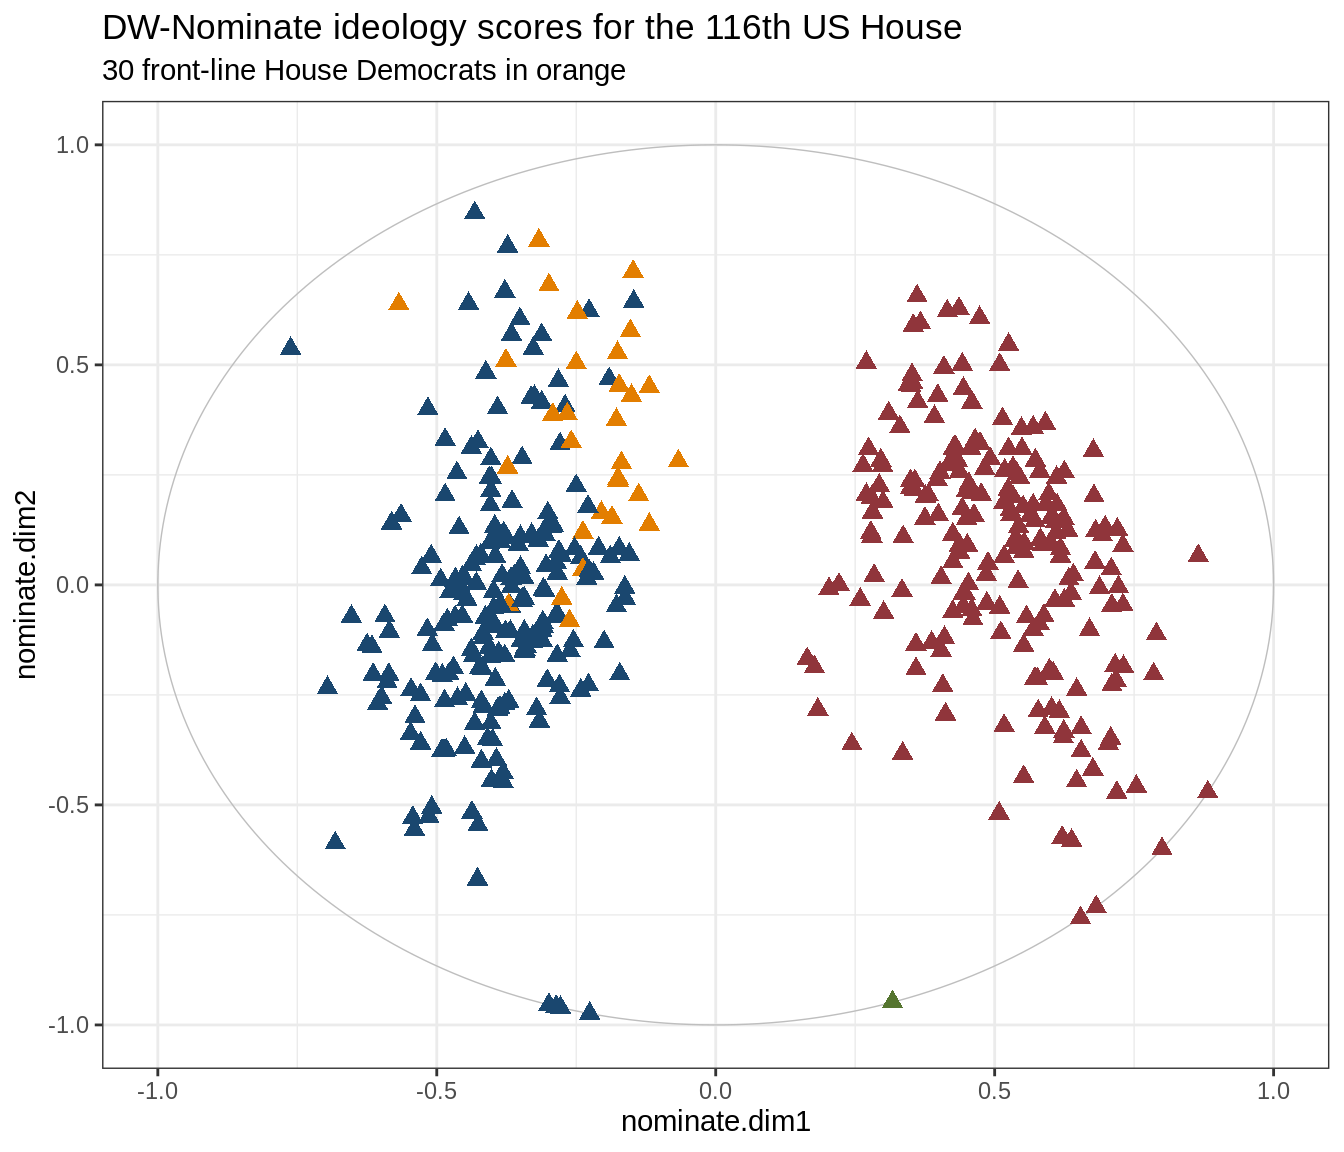
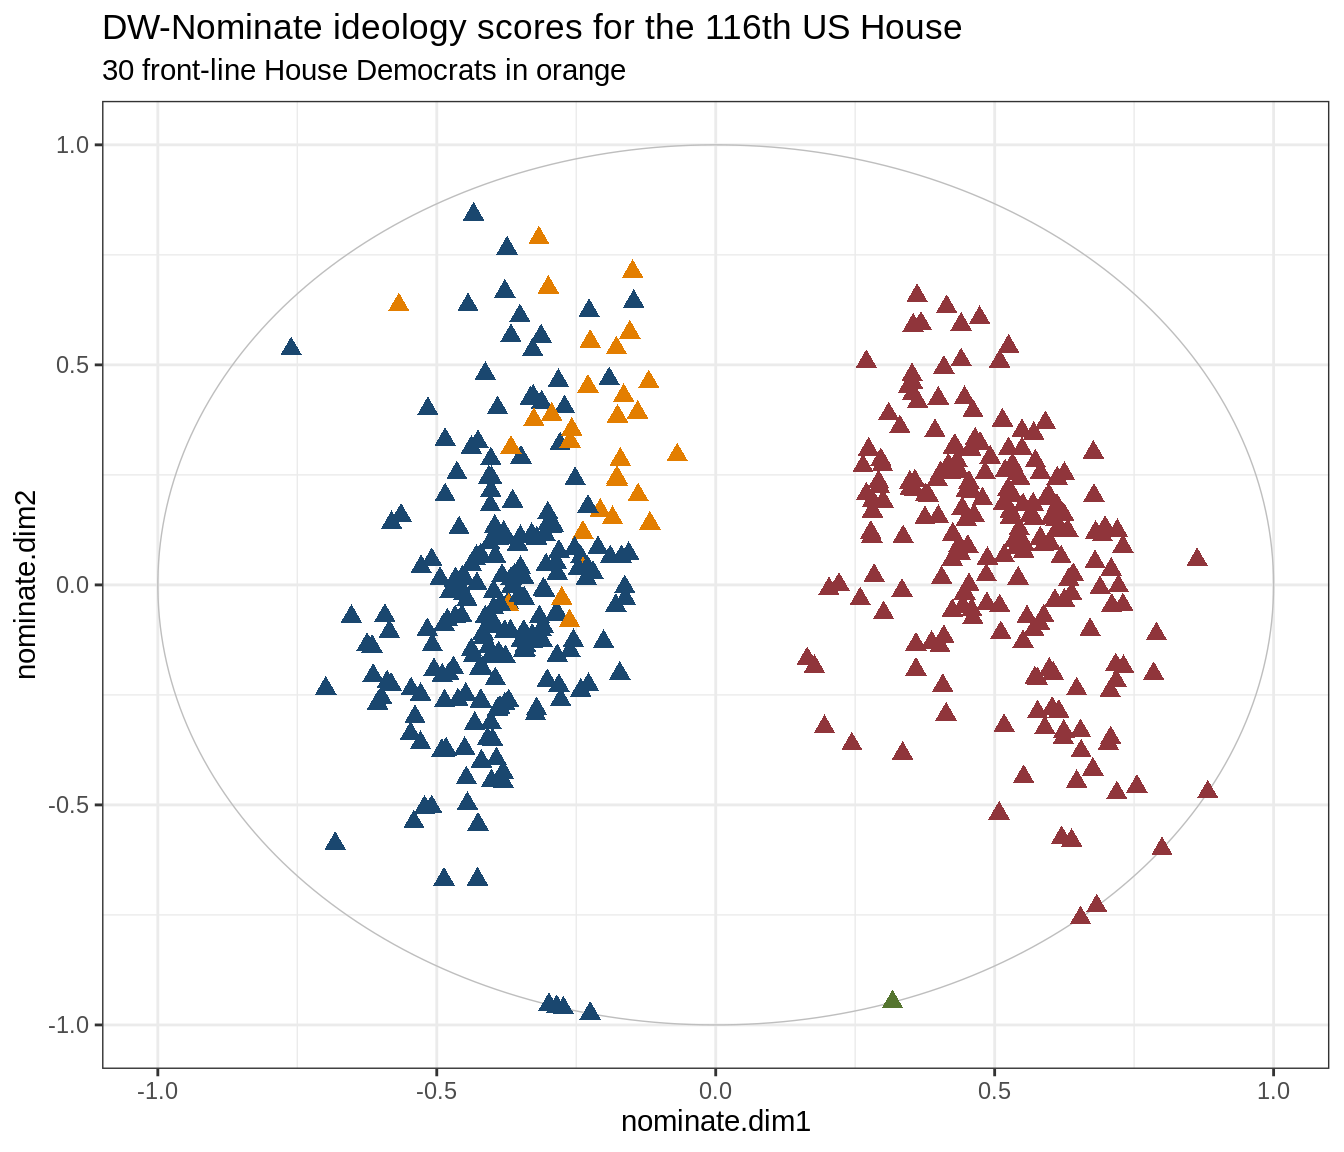
re

diff --git a/content/post/2020-03-16-political-ideologies-of-front-line-house-democrats.html b/content/post/2020-03-16-political-ideologies-of-front-line-house-democrats.html
@@ -31,11 +31,11 @@ description: 'A super quick investigation into the voting behavior of front-line
 
 <div id="briefly" class="section level2">
 <h2>Briefly</h2>
-<p>A quick look at the voting behavior of the 30 House Democrats that represent congressional districts carried by Trump in 2016 – relative to other House members. Using <code>Rvoteview</code>. For a more in-depth account of the characteristics of front-line House Democrats in the 116th Congress, see <a href="https://www.jtimm.net/2019/12/13/frontline-democrats/">this post</a>.</p>
+<p>A quick look at the voting behavior of the 30 House Democrats that represent congressional districts carried by Trump in 2016. Using <code>Rvoteview</code>. For a more in-depth account of the characteristics of front-line House Democrats in the 116th Congress, see <a href="https://www.jtimm.net/2019/12/13/frontline-democrats/">this post</a>.</p>
 </div>
 <div id="front-line-house-democrats" class="section level2">
 <h2>Front-line House Democrats</h2>
-<p>I have been going on about the House of Representatives lately, especially Democrats representing Trump districts. These guys are so important for any number of reasons. They define the Democratic majority in the House. They are the few remaining moderate voices in the House, from either party. But they are super-vulnerable. Over 2/3s of them are freshman members. Again, their constituents supported Trump in 2016. And they could be trying to defend their seats in 2020 with a Democratic Socialist atop the ticket.</p>
+<p>I have been going on about the House of Representatives quite a bit lately, especially Democratic members representing Trump districts. These guys were instrumental in Democrats recapturing the House majority in 2018. Over two-thirds of these front-liners are freshman members, and as a group they are super vulnerable heading into November 2020.</p>
 <p>I have posted a list of the 30 front-liners as a simple csv, cached as a part of the <code>uspoliticalextras</code> data package. It is available at the link below.</p>
 <pre class="r"><code>library(tidyverse)
 url1 &lt;- &#39;https://raw.githubusercontent.com/jaytimm/uspoliticalextras/master/clean-data-sets/thirty-one-house-democrats.csv&#39;
@@ -44,10 +44,14 @@ fl &lt;- read.csv(url(url1)) </code></pre>
 <div id="ideologies-in-the-116th" class="section level2">
 <h2>Ideologies in the 116th</h2>
 <p>So, using the <code>Rvoteview</code> (!) package, we obtain DW-Nominate scores for all members in the 116th House. This session is still in progress, so these numbers will change depending on when they are accessed.</p>
-<pre class="r"><code>x116 &lt;- Rvoteview::member_search (chamber = &#39;House&#39;, congress = 116) %&gt;%
+<pre class="r"><code>x116 &lt;- Rvoteview::member_search (chamber = &#39;House&#39;, 
+                                  congress = 116) %&gt;%
+  
   mutate(label = gsub(&#39;, .*$&#39;, &#39;&#39;, bioname),
-         party_code = ifelse(bioname %in% fl$house_rep, &#39;xx&#39;, party_code),
-         party_name = ifelse(bioname %in% fl$house_rep, &#39;Frontline Dems&#39;, &#39;Other Dems&#39;))</code></pre>
+         party_code = ifelse(bioname %in% fl$house_rep, 
+                             &#39;xx&#39;, party_code),
+         party_name = ifelse(bioname %in% fl$house_rep, 
+                             &#39;Frontline Dems&#39;, &#39;Other Dems&#39;))</code></pre>
 <p><strong>The plot below</strong> summarizes voting behaviors as approximated by DW-Nominate scores in two dimensions. Here, our focus is on the first dimension (ie, the x-axis). The 30 front-liners are marked in orange. In the aggregate, then, they vote more moderately than their non-front-line Democrat peers.</p>
 <pre class="r"><code>p &lt;- x116 %&gt;%
   ggplot(aes(x=nominate.dim1, 
@@ -69,6 +73,7 @@ fl &lt;- read.csv(url(url1)) </code></pre>
        subtitle = &#39;30 front-line House Democrats in orange&#39;)
 
 p</code></pre>
+<pre><code>## Warning: Removed 2 rows containing missing values (geom_point).</code></pre>
 <p><img src="/post/2020-03-16-political-ideologies-of-front-line-house-democrats_files/figure-html/unnamed-chunk-3-1.png" width="672" /></p>
 </div>
 <div id="focusing-on-democrats" class="section level2">
@@ -92,23 +97,23 @@ qq %&gt;% knitr::kable()</code></pre>
 <tbody>
 <tr class="odd">
 <td>0%</td>
-<td align="right">-0.7620</td>
+<td align="right">-0.76100</td>
 </tr>
 <tr class="even">
 <td>25%</td>
-<td align="right">-0.4405</td>
+<td align="right">-0.44525</td>
 </tr>
 <tr class="odd">
 <td>50%</td>
-<td align="right">-0.3780</td>
+<td align="right">-0.37800</td>
 </tr>
 <tr class="even">
 <td>75%</td>
-<td align="right">-0.2860</td>
+<td align="right">-0.28575</td>
 </tr>
 <tr class="odd">
 <td>100%</td>
-<td align="right">-0.0670</td>
+<td align="right">-0.06900</td>
 </tr>
 </tbody>
 </table>
@@ -210,7 +215,7 @@ Other Dems
 58
 </td>
 <td style="text-align:right;">
-28.3
+28.2
 </td>
 </tr>
 <tr>
@@ -224,7 +229,7 @@ Other Dems
 59
 </td>
 <td style="text-align:right;">
-28.8
+28.6
 </td>
 </tr>
 <tr>
@@ -238,7 +243,7 @@ Other Dems
 53
 </td>
 <td style="text-align:right;">
-25.9
+25.7
 </td>
 </tr>
 <tr>
@@ -249,10 +254,10 @@ Other Dems
 4
 </td>
 <td style="text-align:right;">
-35
+36
 </td>
 <td style="text-align:right;">
-17.1
+17.5
 </td>
 </tr>
 </tbody>
